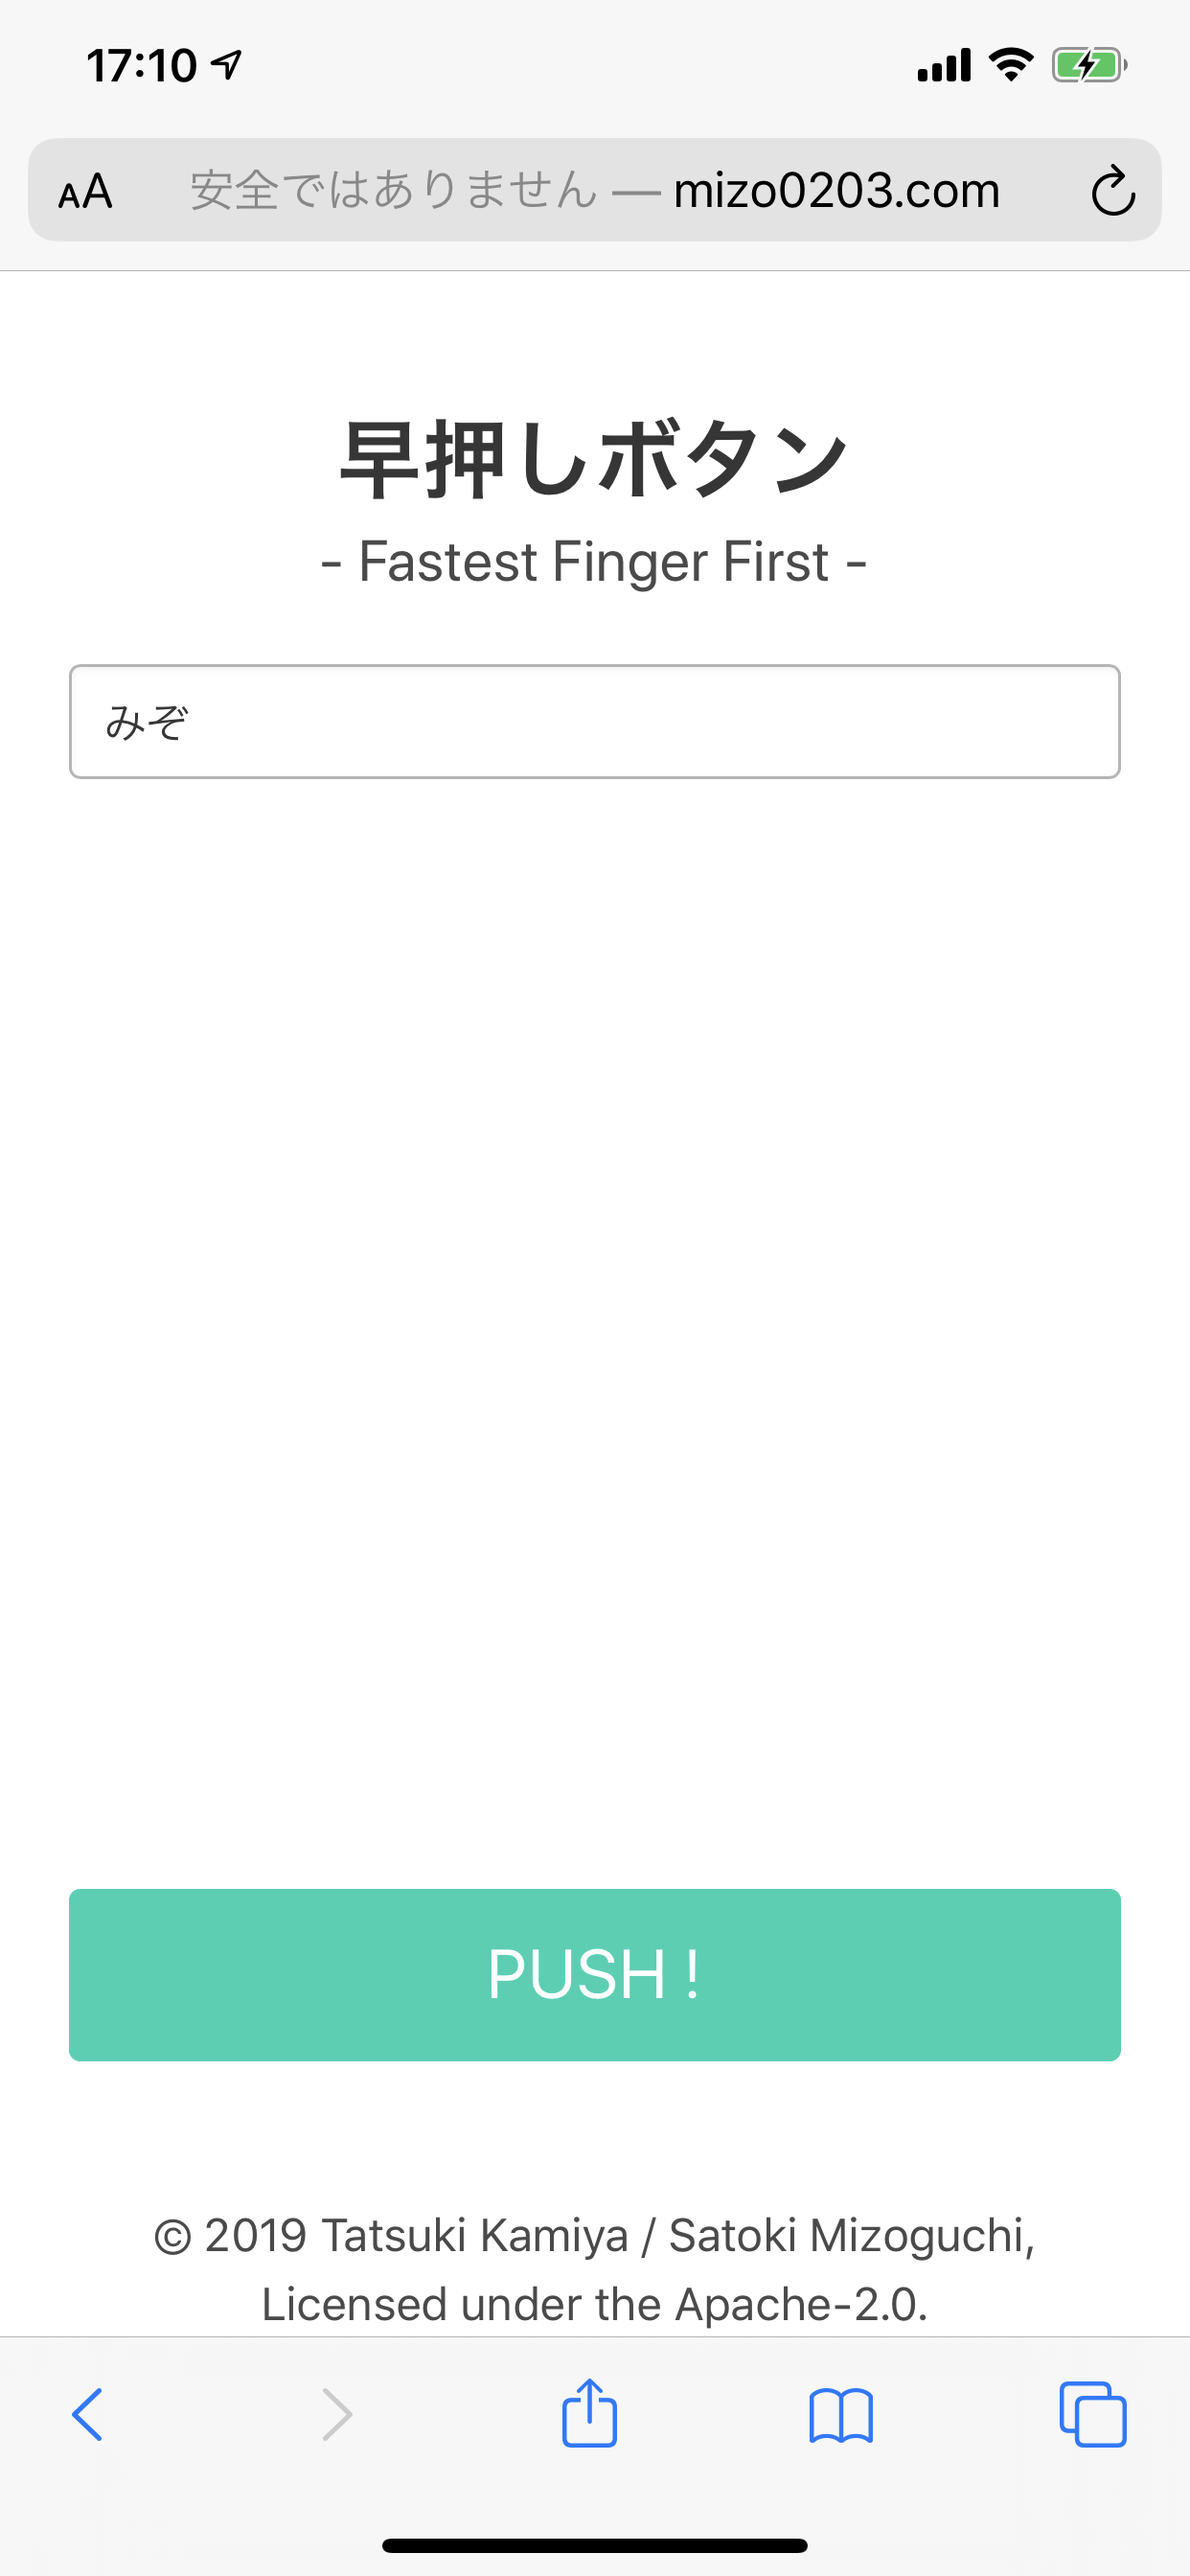
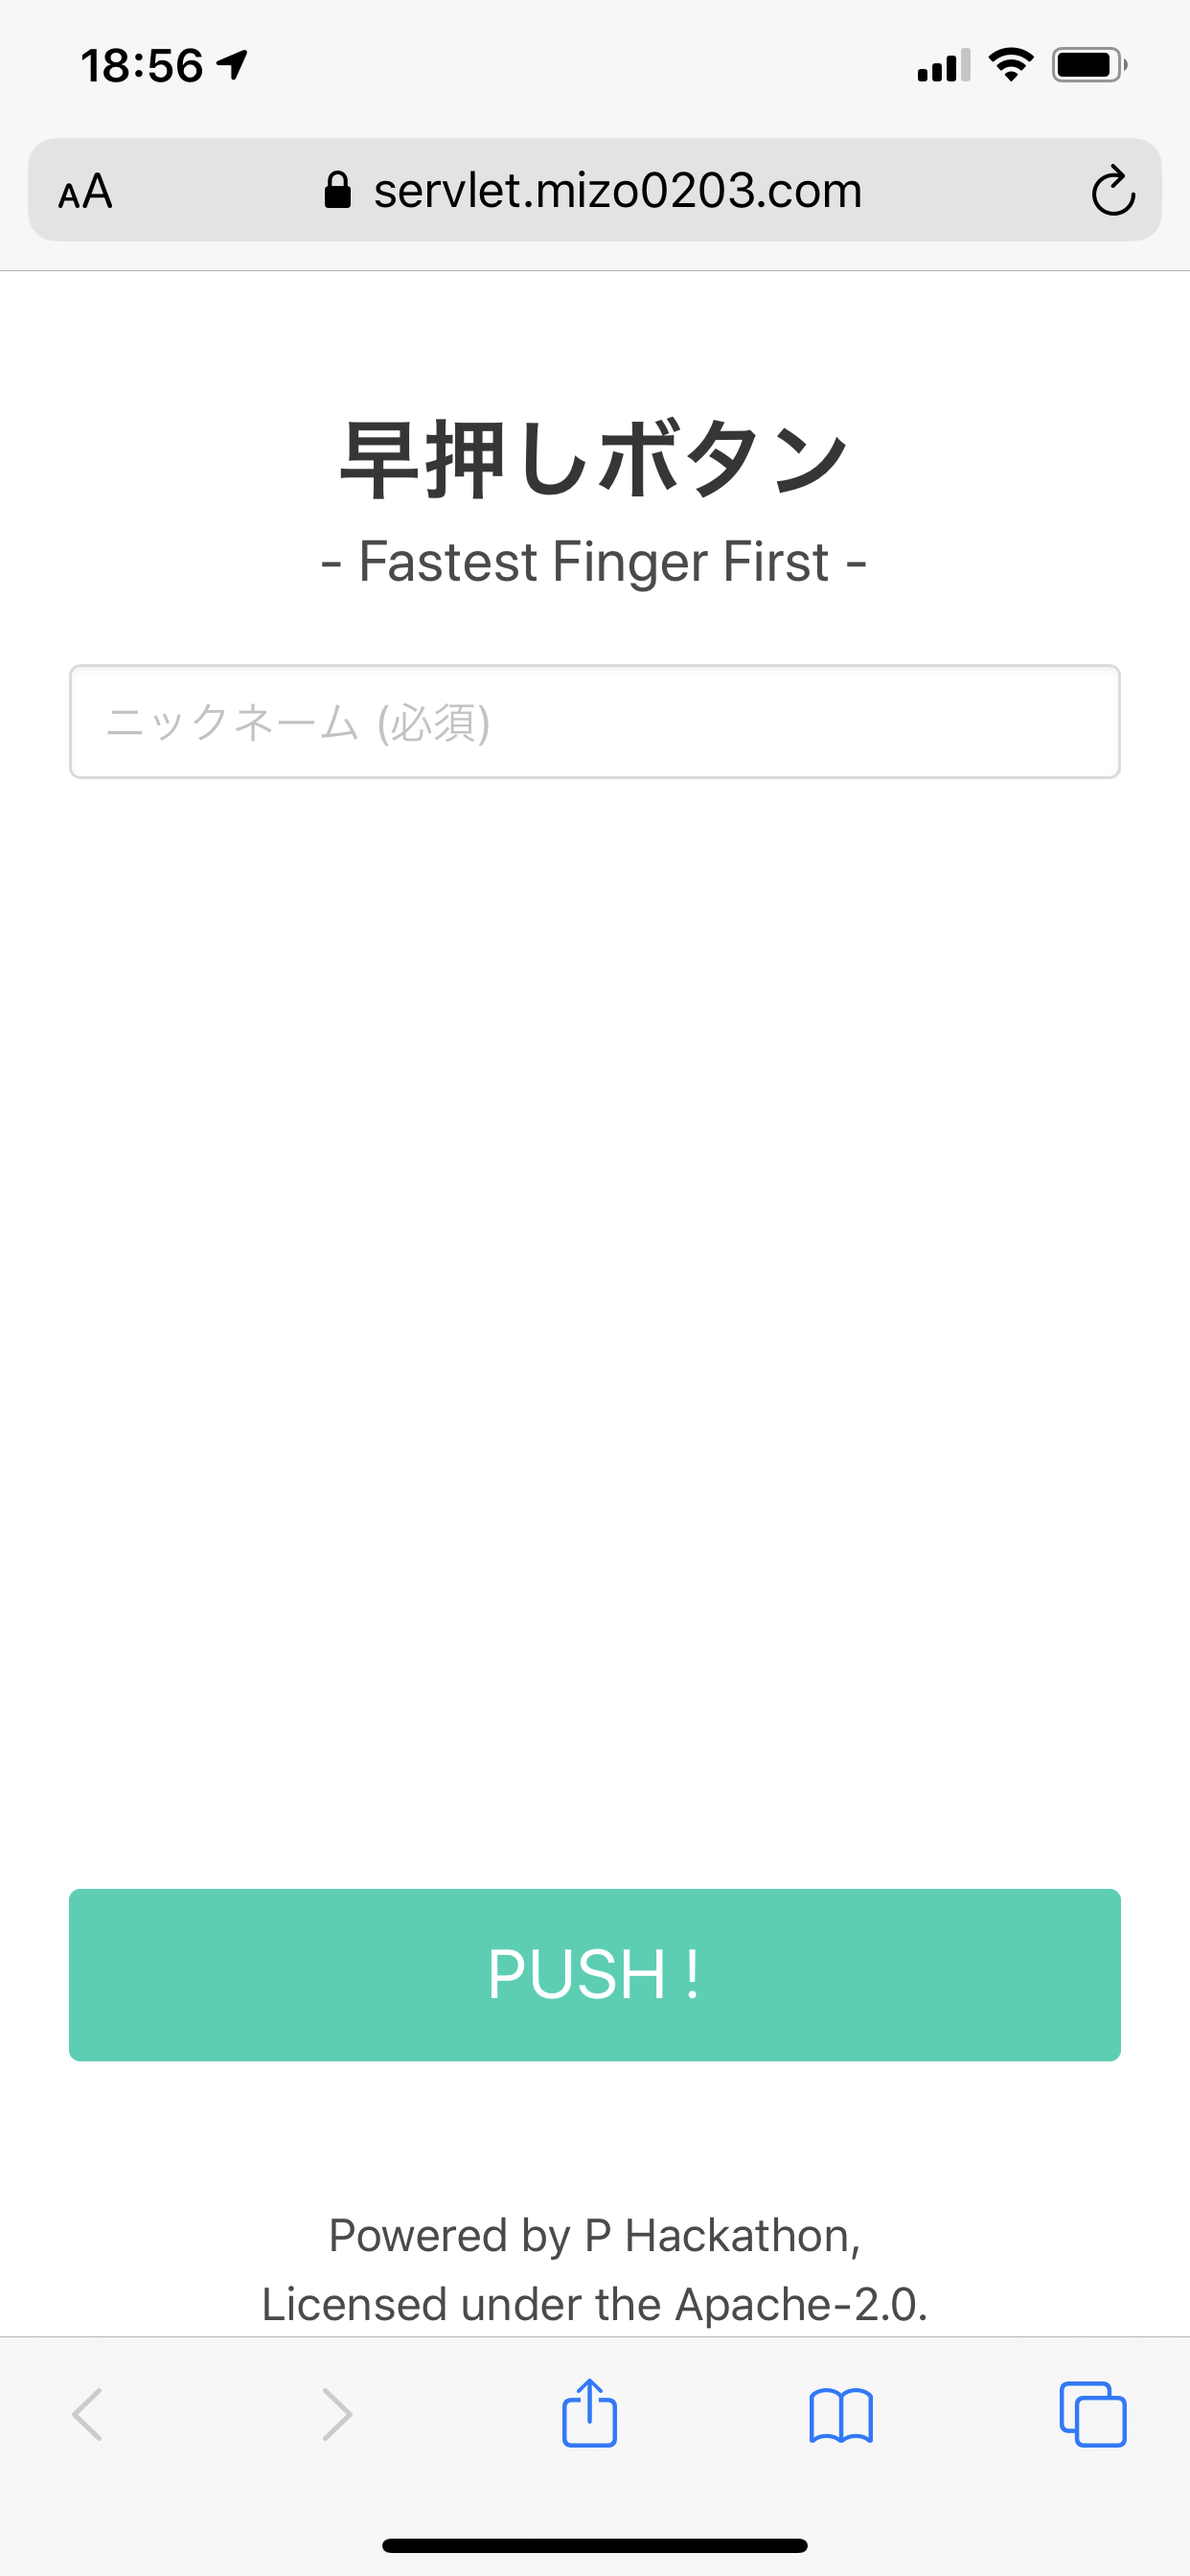
Change the copyright notice to 'P Hackathon' to avoid attacks directed at individuals. fix #577 @1.0h

diff --git a/src/main/webapp/index.html b/src/main/webapp/index.html
@@ -27,7 +27,7 @@
             <section class="section">
                 <div class="container" id="result"></div>
             </section>
-            <div class="container">&copy; 2019 Tatsuki Kamiya / Satoki Mizoguchi,<br />Licensed under the Apache-2.0.
+            <div class="container">Powered by P Hackathon,<br />Licensed under the Apache-2.0.
             </div>
         </div>
     </section>

diff --git a/src/main/kotlin/com/mizo0203/fastest/finger/first/AdvanceServlet.kt b/src/main/kotlin/com/mizo0203/fastest/finger/first/AdvanceServlet.kt
@@ -1,5 +1,5 @@
 /*
- * Copyright 2019, Satoki Mizoguchi
+ * Copyright 2019, P Hackathon
  *
  * Licensed under the Apache License, Version 2.0 (the "License");
  * you may not use this file except in compliance with the License.

diff --git a/src/main/kotlin/com/mizo0203/fastest/finger/first/ChallengeServlet.kt b/src/main/kotlin/com/mizo0203/fastest/finger/first/ChallengeServlet.kt
@@ -1,5 +1,5 @@
 /*
- * Copyright 2019, Satoki Mizoguchi
+ * Copyright 2019, P Hackathon
  *
  * Licensed under the Apache License, Version 2.0 (the "License");
  * you may not use this file except in compliance with the License.

diff --git a/src/main/kotlin/com/mizo0203/fastest/finger/first/FlagManager.kt b/src/main/kotlin/com/mizo0203/fastest/finger/first/FlagManager.kt
@@ -1,5 +1,5 @@
 /*
- * Copyright 2019, Satoki Mizoguchi
+ * Copyright 2019, P Hackathon
  *
  * Licensed under the Apache License, Version 2.0 (the "License");
  * you may not use this file except in compliance with the License.

diff --git a/src/main/kotlin/com/mizo0203/fastest/finger/first/LogServlet.kt b/src/main/kotlin/com/mizo0203/fastest/finger/first/LogServlet.kt
@@ -1,5 +1,5 @@
 /*
- * Copyright 2019, Satoki Mizoguchi
+ * Copyright 2019, P Hackathon
  *
  * Licensed under the Apache License, Version 2.0 (the "License");
  * you may not use this file except in compliance with the License.

diff --git a/src/main/kotlin/com/mizo0203/fastest/finger/first/MessageServlet.kt b/src/main/kotlin/com/mizo0203/fastest/finger/first/MessageServlet.kt
@@ -1,5 +1,5 @@
 /*
- * Copyright 2019, Satoki Mizoguchi
+ * Copyright 2019, P Hackathon
  *
  * Licensed under the Apache License, Version 2.0 (the "License");
  * you may not use this file except in compliance with the License.

diff --git a/src/main/kotlin/com/mizo0203/fastest/finger/first/SkipServlet.kt b/src/main/kotlin/com/mizo0203/fastest/finger/first/SkipServlet.kt
@@ -1,5 +1,5 @@
 /*
- * Copyright 2019, Satoki Mizoguchi
+ * Copyright 2019, P Hackathon
  *
  * Licensed under the Apache License, Version 2.0 (the "License");
  * you may not use this file except in compliance with the License.

diff --git a/src/main/kotlin/com/mizo0203/fastest/finger/first/StartServlet.kt b/src/main/kotlin/com/mizo0203/fastest/finger/first/StartServlet.kt
@@ -1,5 +1,5 @@
 /*
- * Copyright 2019, Satoki Mizoguchi
+ * Copyright 2019, P Hackathon
  *
  * Licensed under the Apache License, Version 2.0 (the "License");
  * you may not use this file except in compliance with the License.

diff --git a/src/main/kotlin/com/mizo0203/fastest/finger/first/StreamServlet.kt b/src/main/kotlin/com/mizo0203/fastest/finger/first/StreamServlet.kt
@@ -1,5 +1,5 @@
 /*
- * Copyright 2019, Satoki Mizoguchi
+ * Copyright 2019, P Hackathon
  *
  * Licensed under the Apache License, Version 2.0 (the "License");
  * you may not use this file except in compliance with the License.

diff --git a/README.md b/README.md
@@ -25,7 +25,7 @@ And access to http://localhost:8080/fastest-finger-first/
 
 ## ライセンス / License
 
-    Copyright 2019 Tatsuki Kamiya / Satoki Mizoguchi
+    Copyright 2019 P Hackathon
 
     Licensed under the Apache License, Version 2.0 (the "License");
     you may not use this file except in compliance with the License.
